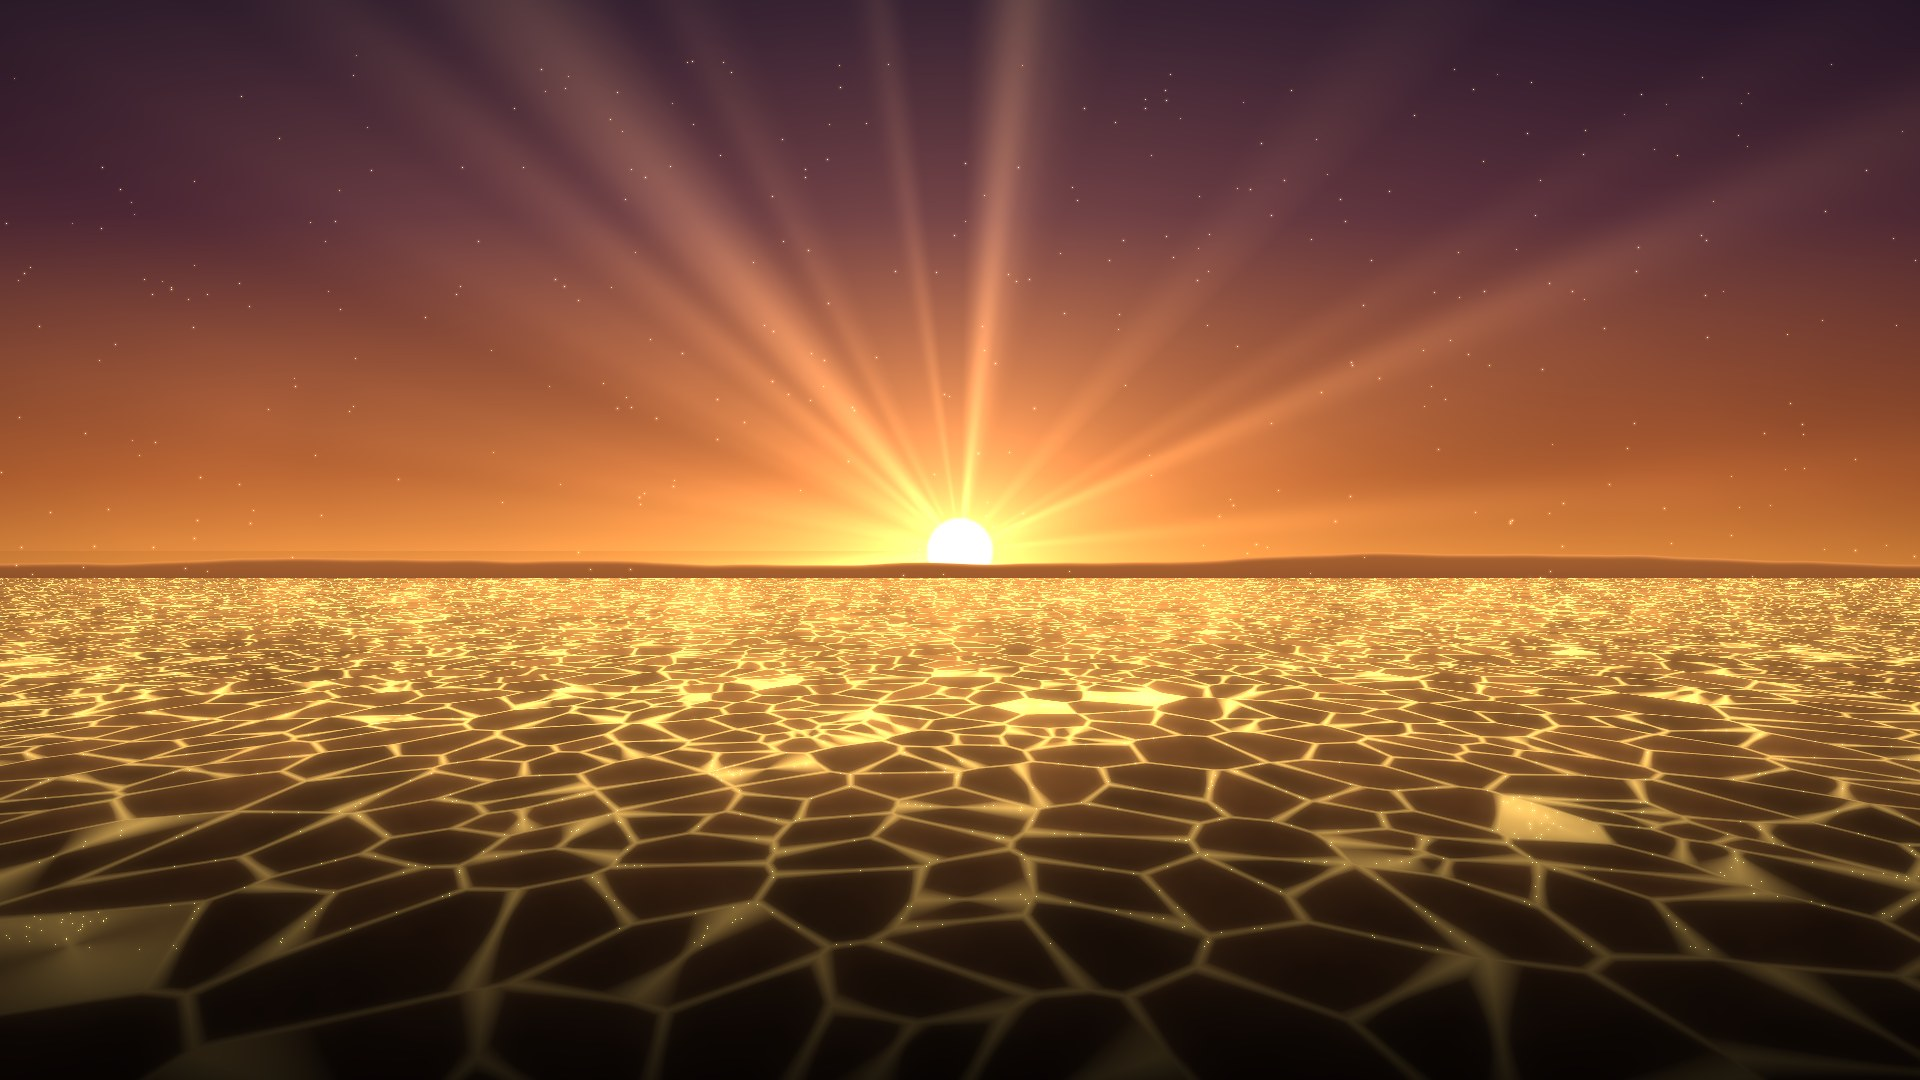
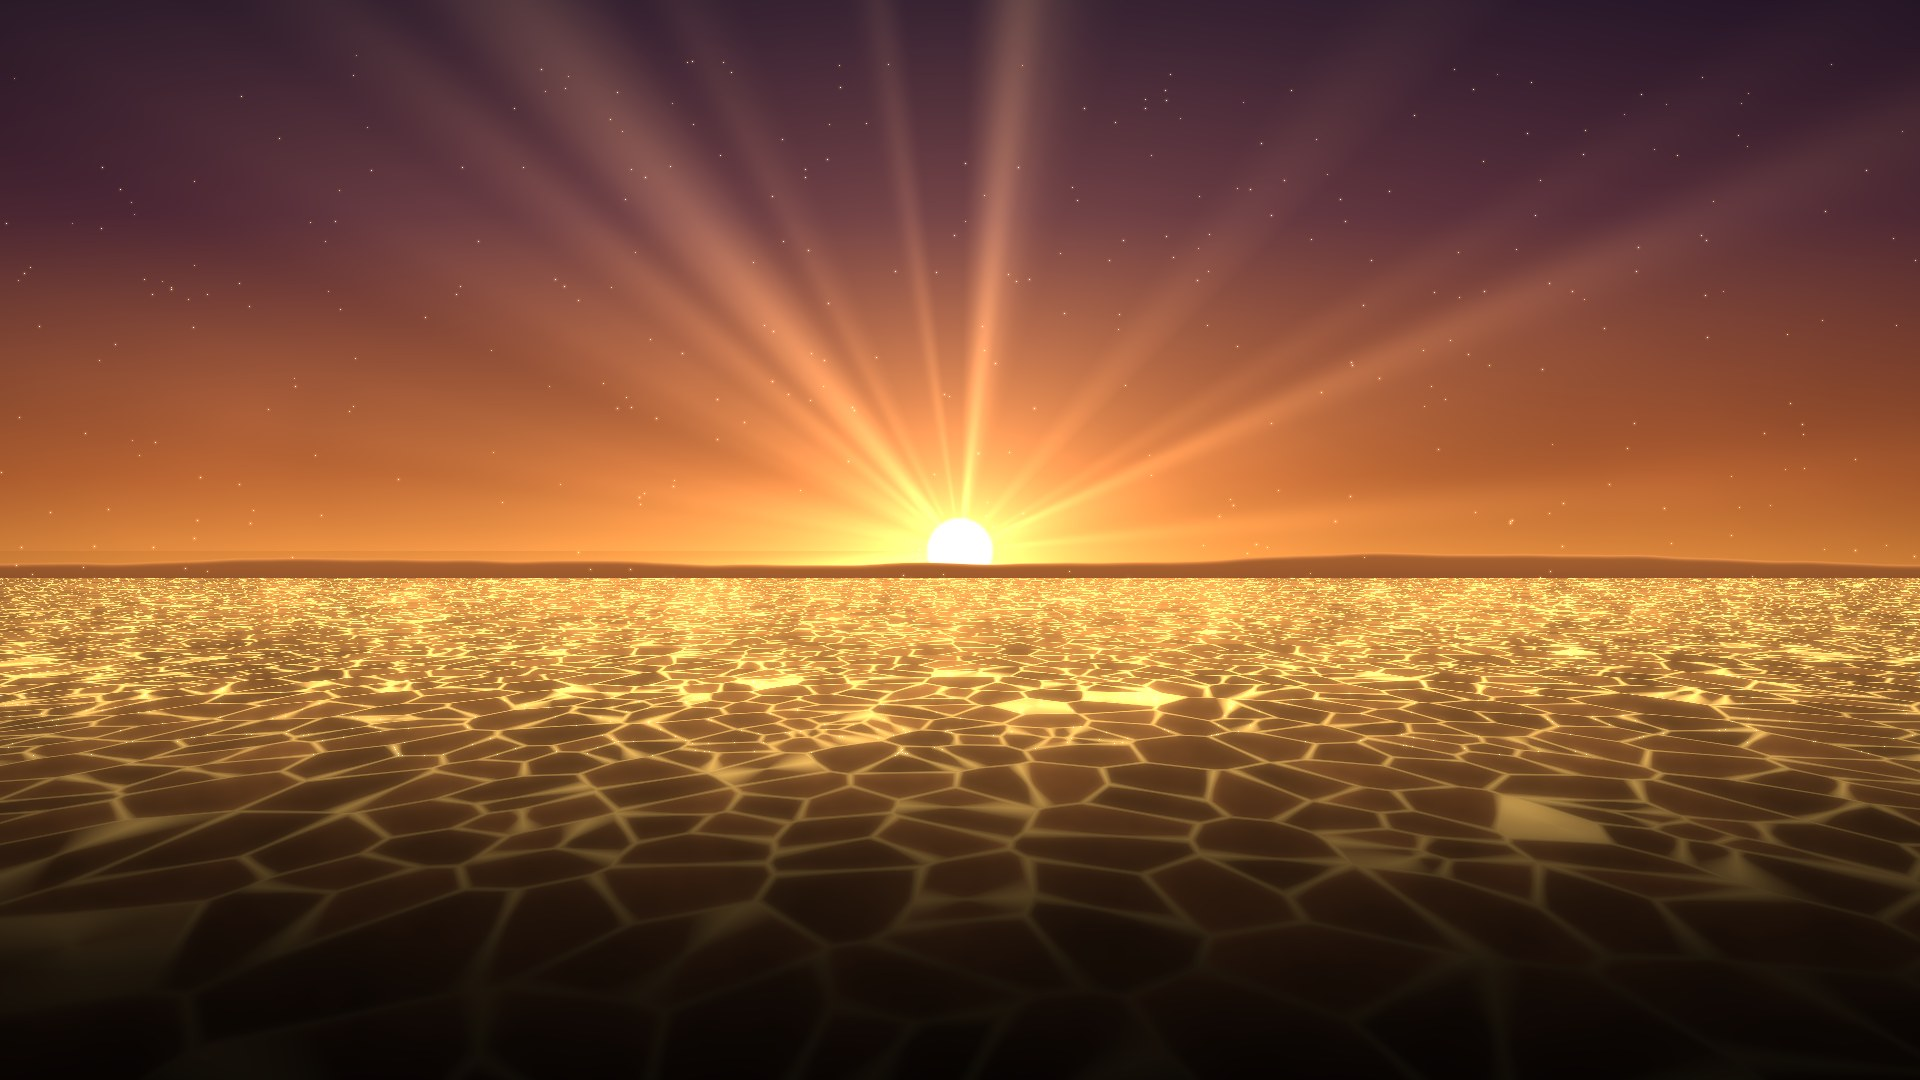
Song 06 promo v2: ripple before the fragment, calmer lower third, softer heaven ending
Claude-Session: https://claude.ai/code/session_01DSHsMeB7ain7qg3RYXYMEW

Changed region(s): [[0.0, 0.6417, 1.0, 0.9472]]

diff --git a/engine/songs/s06_grains.py b/engine/songs/s06_grains.py
@@ -154,10 +154,10 @@ NINTH = 1e9            # the whole arch does not glow as one in this song
 # The reading-time contract (PHASE2.md item 4): words form over about 3.75 s, then stay solid at least 6 s
 # (hold >= form + 9.75), then dissolve over about 1.6 s; the next text starts at least 0.5 s after that.
 C_FORM, C_HOLD = 8.0, 17.9          # Concession: solid 11.75 to 17.9 (6.15 s)
-I_FORM, I_HOLD = 20.0, 29.9         # Inclusiveness: starts 0.5 s after Concession's dissolve ends (19.5)
-F1 = (32.0, 35.0, 38.2)             # "waters this wilderness": solid 35.0 to 38.2
-F2 = (40.3, 42.8, 46.0)             # "the fragrance of Her love": solid 42.8 to 46.0
-TITLE_HIT = 51.1                    # title forms from 48.1 (0.5 s after the last fragment has left)
+I_FORM, I_HOLD = 20.0, 29.8         # Inclusiveness: starts 0.5 s after Concession's dissolve ends (19.5)
+F1 = (33.0, 36.0, 39.0)             # "waters this wilderness": after the ripple's ring has passed the words
+F2 = (41.1, 43.6, 46.6)             # "the fragrance of Her love": solid 43.6 to 46.6
+TITLE_HIT = 51.7                    # title forms from 48.7 (0.5 s after the last fragment has left)
 
 SKYLINE_LANTERN = 0.0     # the scenes have their own land; the small light along the drawn skyline is hidden
 BOTTOM_CALM = 1.0         # calm lower third (Astra round 1, finding 12)
@@ -170,14 +170,14 @@ RINGS_AT_START = {2: 1, 6: 3}
 PAL = {
     "gold":  ("#3b2340", "#b8642e", "#f4b24e", "#ffd88a"),
     "amber": ("#2c1a36", "#94492c", "#e88a3a", "#ffc070"),
-    "glory": ("#33204a", "#a8562e", "#f6a843", "#ffe0a0"),
+    "glory": ("#33204a", "#9a4c2c", "#d8823a", "#ffd890"),
 }
 _pal_keys = [(0.0, "gold"), (4.0, "amber"), (44.0, "amber"), (50.0, "glory"), (TOTAL, "glory")]
 SKY_TOP = Track([(t, lin(PAL[p][0])) for t, p in _pal_keys])
 SKY_MID = Track([(t, lin(PAL[p][1])) for t, p in _pal_keys])
 SKY_HOR = Track([(t, lin(PAL[p][2])) for t, p in _pal_keys])
 GLOW = Track([(t, lin(PAL[p][3])) for t, p in _pal_keys])
-SUN_INT = Track([(0, 1.00), (6, 0.8), (44, 0.8), (50, 1.0), (PEAK_END, 1.1), (TOTAL, 1.05)])
+SUN_INT = Track([(0, 1.00), (6, 0.8), (44, 0.8), (50, 0.9), (PEAK_END, 0.95), (TOTAL, 0.9)])
 SUN_Y = Track([(0, 0.32), (6, 0.30), (44, 0.29), (TOTAL, 0.30)])
 SUN_SIZE = Track([(0, 0.13), (TOTAL, 0.14)])
 STARS = Track([(0, 0.0), (TOTAL, 0.0)])
@@ -192,7 +192,7 @@ MOTE_COLORS = ("#ffd27a", "#ff9a3c")     # golden dust, wheat gold to deep orang
 LANTERN_COLORS = ("#ffb04a", "#e8692a")
 TRAIL = Track([(0, 0.0), (TOTAL, 0.0)])
 ZOOM = Track([(0, 0.98), (TOTAL, 0.96)])
-EXPOSURE = Track([(0, 1.0), (TOTAL, 1.0)])
+EXPOSURE = Track([(0, 1.0), (45.0, 1.0), (50.0, 0.88), (TOTAL, 0.88)])
 FADE = Track([(0, 0.0), (0.8, 1.0), (58.6, 1.0), (TOTAL, 0.0)])
 RAYS = Track([(0, 0.75), (4, 0.6), (44, 0.6), (49, 0.75), (TOTAL, 0.7)])
 PART = Track([(0, 0.5), (TOTAL, 0.5)])
@@ -209,15 +209,15 @@ SCENES = [
     dict(image=P + "shore_dark.jpg", t0=18.0, t1=25.6, fade_in=2.4, fade_out=2.0, transition="dissolve",
          zoom=(1.08, 1.05), water=True, water_line=0.505, water_bottom=0.21, water_strength=0.7),
     # the same shore with the lantern relit, as the older one lifts the young one up
-    dict(image=P + "shore_lit.jpg", t0=23.6, t1=33.0, fade_in=2.0, fade_out=2.4, transition="fade",
+    dict(image=P + "shore_lit.jpg", t0=23.6, t1=31.8, fade_in=2.0, fade_out=2.4, transition="fade",
          zoom=(1.05, 1.02), water=True, water_line=0.505, water_bottom=0.21, water_strength=0.7),
     # 4. the cracked wilderness at dusky gold ...
-    dict(image=P + "wilderness_dry.jpg", t0=30.6, t1=37.2, fade_in=2.4, fade_out=4.2, transition="dissolve",
+    dict(image=P + "wilderness_dry.jpg", t0=29.4, t1=34.8, fade_in=2.4, fade_out=3.0, transition="dissolve",
          zoom=(1.02, 1.06)),
     # ... which the living gold water fills, spreading out from where the light pours in
-    dict(image=P + "wilderness_gold.jpg", t0=33.0, t1=40.8, fade_in=4.2, fade_out=2.4, transition="ripple",
+    dict(image=P + "wilderness_gold.jpg", t0=31.8, t1=40.8, fade_in=3.0, fade_out=2.4, transition="ripple",
          ripple_from=(0.5, 0.40), zoom=(1.06, 1.09),
-         gain=Track([(0, 1.0), (33.0, 0.9), (40.8, 0.9)])),
+         gain=Track([(0, 1.0), (31.8, 0.9), (40.8, 0.9)])),
     # 5. the healed land: blossom trees along golden streams, wheat bending in the wind
     dict(image=P + "blossom.jpg", t0=38.4, t1=48.4, fade_in=2.4, fade_out=3.0, transition="dissolve",
          zoom=(1.03, 1.09), pan=((0.0, 0.0), (0.015, 0.01)),
@@ -235,17 +235,17 @@ FIGURES = [
     # lifts them up by both hands, and they embrace (while the lantern on the water is relit).
     dict(poses=["assets/figures/inclusiveness_a.png", "assets/figures/inclusiveness_b.png",
                 "assets/figures/inclusiveness_c.png"],
-         t0=19.8, t1=29.4, pose_times=[23.2, 26.4], x=0.40, y=0.21, height=0.40, to_star=3, color="#ffb7cf"),
+         t0=19.8, t1=29.3, pose_times=[23.2, 26.4], x=0.40, y=0.21, height=0.40, to_star=3, color="#ffb7cf"),
 ]
 
 # C. signature effects
 # the golden field of light: an ocean of wheat in scene 1, waves of grain again at the edge of heaven
-GOLDEN_FIELD = Track([(0, 0.85), (3.0, 0.85), (5.2, 0.0), (45.0, 0.0), (49.0, 0.6), (PEAK_END, 0.7), (TOTAL, 0.65)])
+GOLDEN_FIELD = Track([(0, 0.85), (3.0, 0.85), (5.2, 0.0), (45.0, 0.0), (49.0, 0.5), (PEAK_END, 0.55), (TOTAL, 0.5)])
 FIELD_LINE = Track([(0, 0.40), (5.2, 0.40), (45.0, 0.34), (TOTAL, 0.34)])
 FIELD_COLOR = "#ffc35a"
 FIELD_SPEED = 1.2
 # living water: a column of light pours from heaven into the cracked land, and the gold spreads from there
-BEAM = Track([(0, 0.0), (31.6, 0.0), (33.4, 0.42), (37.4, 0.42), (39.6, 0.0), (TOTAL, 0.0)])
+BEAM = Track([(0, 0.0), (30.6, 0.0), (32.4, 0.42), (37.4, 0.42), (39.6, 0.0), (TOTAL, 0.0)])
 BEAM_FROM = (0.5, 1.02)
 BEAM_TO = (0.5, 0.40)
 BEAM_WIDTH = (0.012, 0.06)
@@ -261,7 +261,7 @@ for i in range(9):
 
 # Lit before song 06 (concert star history): 3 Apology, 4 Inclusiveness, 6 Respect, 7 Encouragement, 8 Consideration,
 # 9 Compliment. This song lights 5 Concession for the first time (guide about 70.8 s, promo 8.0 to 19.4; a
-# placement exception awaiting Anthony) and Inclusiveness shines again at "Pardon one another" (relit 31.4).
+# placement exception awaiting Anthony) and Inclusiveness shines again at "Pardon one another" (relit 31.3).
 OFF = dict(form=1e9, hold=1e9, star=1e9)
 LIT = dict(form=1e9, hold=1e9, star=-100.0)
 PHRASES = [

diff --git a/assets/plates/s06/paint_plates.py b/assets/plates/s06/paint_plates.py
@@ -342,11 +342,11 @@ def plate_wilderness(living):
         lay = gold * (core * (0.95 - 0.35 * d))[..., None]
         lay = glow_layer(lay, 4, 0.6)
         lay = glow_layer(lay, 18, 0.35)
-        lay *= (1 - 0.75 * np.clip((0.33 - V) / 0.33, 0, 1) ** 0.7)[..., None]
+        lay *= (1 - 0.88 * np.clip((0.36 - V) / 0.26, 0, 1) ** 0.6)[..., None]
         img = img * (1 - m[..., None]) + (ground * (1 - core[..., None] * 0.6) + lay) * m[..., None]
         # green gold shoots: small bright points along the veins
         rng = np.random.default_rng(71)
-        ys, xs = np.nonzero((crack > 0.6) & (V > 0.12))
+        ys, xs = np.nonzero((crack > 0.6) & (V > 0.30))
         pick = rng.choice(len(ys), size=min(900, len(ys)), replace=False)
         sh = np.zeros((H, W, 3))
         sh[ys[pick], xs[pick]] = hexc("#d8f07a") * 1.6
@@ -394,7 +394,7 @@ def plate_blossom():
                 trees.append((sx[k] + side * (0.03 + 0.06 * t[k]) + rng.normal(0, 0.01), sv[k], t[k]))
     trees.sort(key=lambda q: -q[1])
     for tx, tv, tk in trees:
-        if tv < 0.08:
+        if tv < 0.16:
             continue
         r = (0.010 + 0.040 * tk) * W
         cx, cy = tx * W, (1 - tv) * H - r * 1.2
@@ -416,7 +416,7 @@ def plate_blossom():
     haze = np.exp(-((V - 0.47) / 0.10) ** 2)
     img = img * (1 - 0.25 * haze[..., None]) + hexc("#ffd8a0") * (0.25 * haze)[..., None]
     img = dust(img, 500, 54, "#ffe0a0", (0.0, 1.0, 0.35, 0.95))
-    img = calm_bottom(img, 0.30, 0.55)
+    img = calm_bottom(img, 0.33, 0.72)
     img = vignette(img, 0.30)
     save(img, "blossom.jpg")
 
